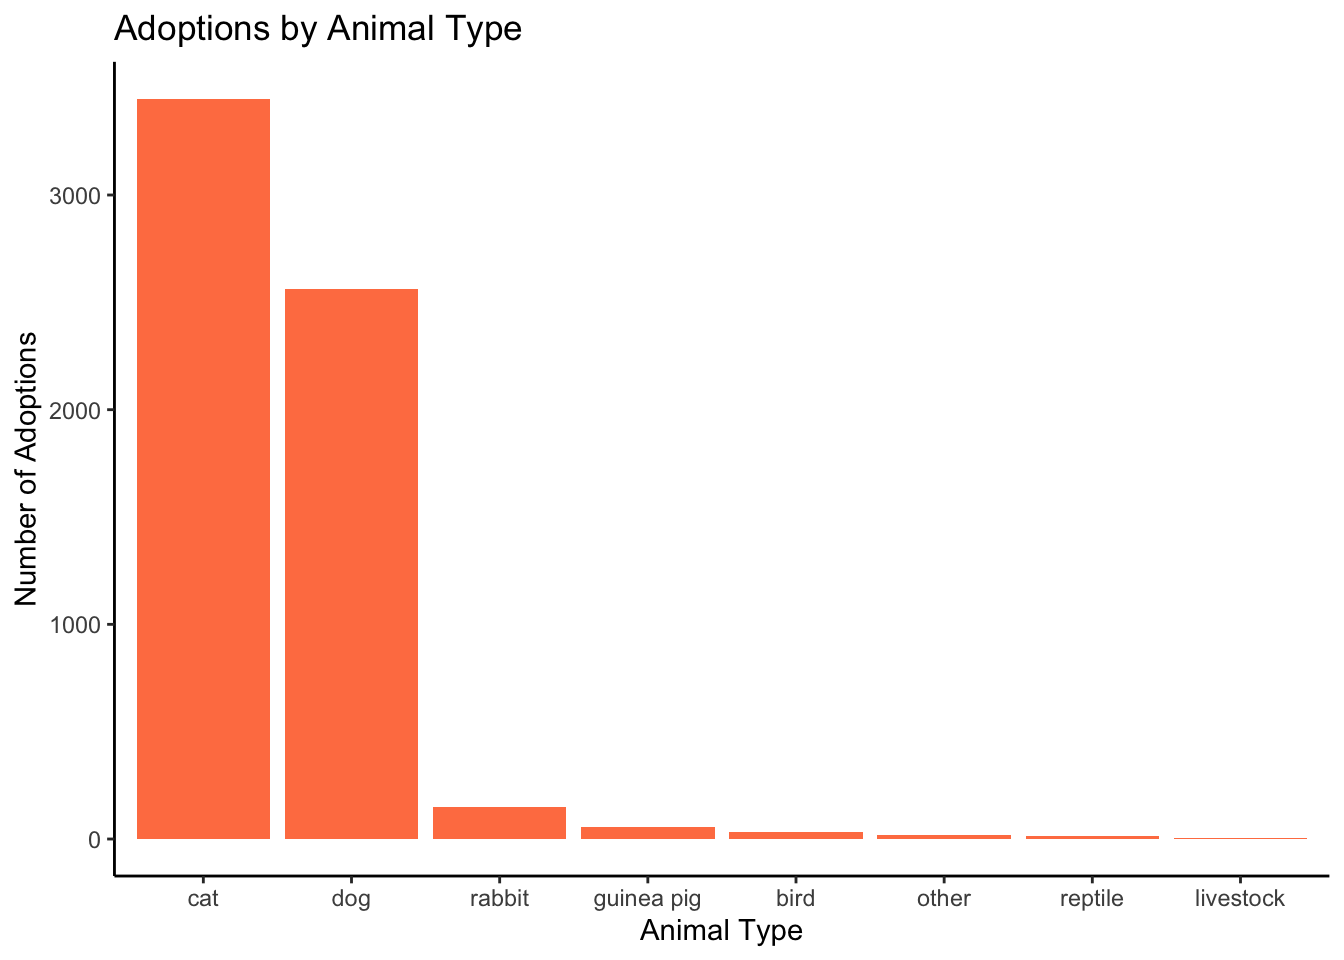
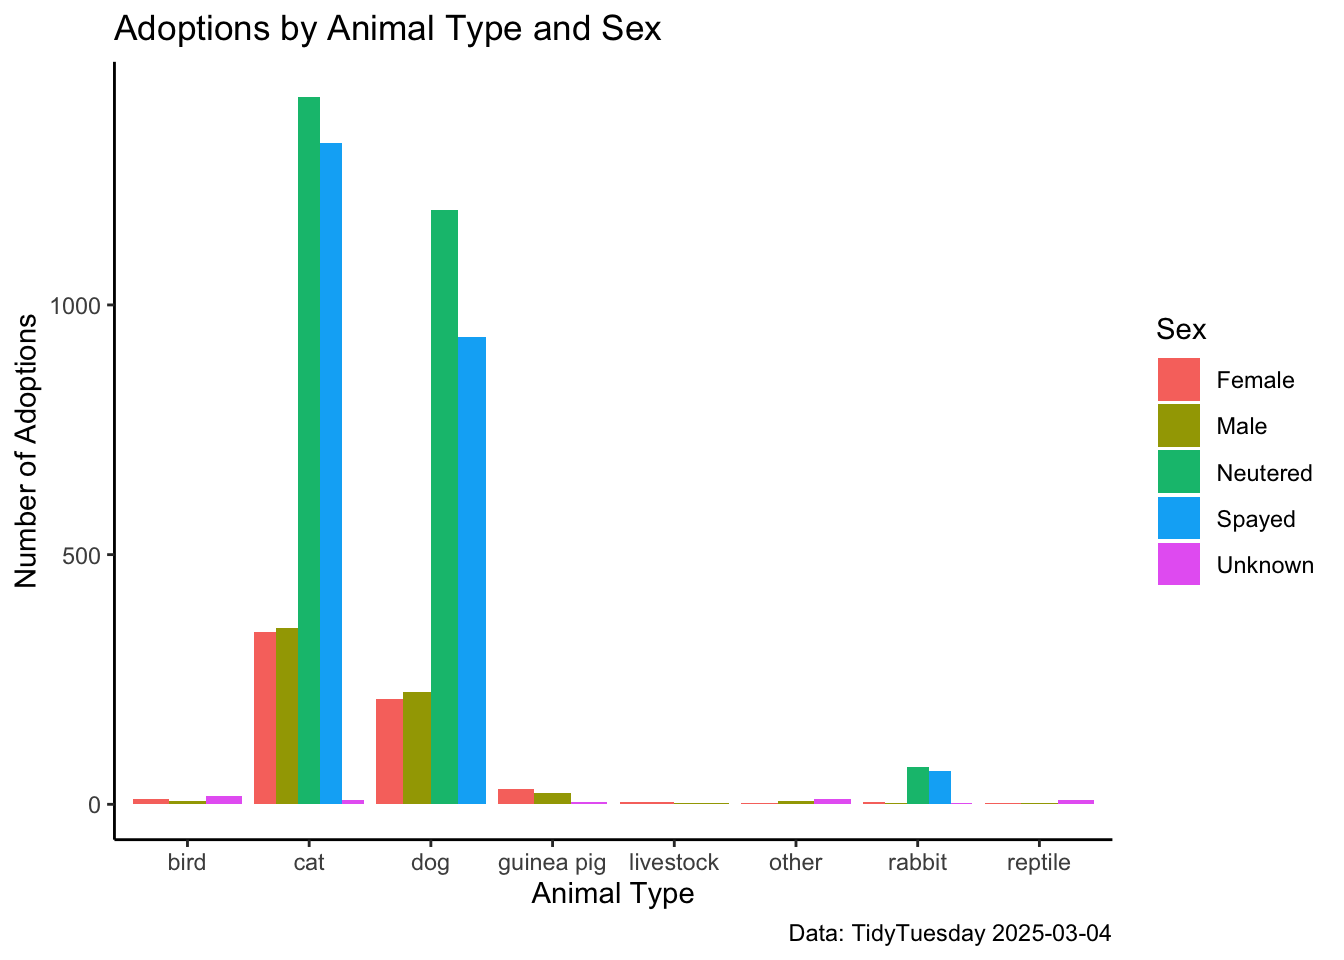
updated html

diff --git a/2025-03-04/2025-03-04.html b/2025-03-04/2025-03-04.html
@@ -166,22 +166,21 @@ date  (3): dob, intake_date, outcome_date
 </div>
 <p>Which type of pets are adopted most often?</p>
 <div class="cell">
-<div class="sourceCode cell-code" id="cb10"><pre class="sourceCode r code-with-copy"><code class="sourceCode r"><span id="cb10-1"><a href="#cb10-1" aria-hidden="true" tabindex="-1"></a><span class="co"># Count adoptions by animal type</span></span>
-<span id="cb10-2"><a href="#cb10-2" aria-hidden="true" tabindex="-1"></a>adoptions_by_type <span class="ot">&lt;-</span> longbeach <span class="sc">%&gt;%</span></span>
-<span id="cb10-3"><a href="#cb10-3" aria-hidden="true" tabindex="-1"></a>  <span class="fu">filter</span>(outcome_type <span class="sc">==</span> <span class="st">"adoption"</span>) <span class="sc">%&gt;%</span></span>
-<span id="cb10-4"><a href="#cb10-4" aria-hidden="true" tabindex="-1"></a>  <span class="fu">group_by</span>(animal_type) <span class="sc">%&gt;%</span></span>
-<span id="cb10-5"><a href="#cb10-5" aria-hidden="true" tabindex="-1"></a>  <span class="fu">summarise</span>(<span class="at">total_adopted =</span> <span class="fu">n</span>()) <span class="sc">%&gt;%</span></span>
-<span id="cb10-6"><a href="#cb10-6" aria-hidden="true" tabindex="-1"></a>  <span class="fu">arrange</span>(<span class="fu">desc</span>(total_adopted))</span>
-<span id="cb10-7"><a href="#cb10-7" aria-hidden="true" tabindex="-1"></a></span>
-<span id="cb10-8"><a href="#cb10-8" aria-hidden="true" tabindex="-1"></a><span class="co"># Plot </span></span>
-<span id="cb10-9"><a href="#cb10-9" aria-hidden="true" tabindex="-1"></a><span class="fu">ggplot</span>(adoptions_by_type, <span class="fu">aes</span>(<span class="at">x =</span> <span class="fu">reorder</span>(animal_type, <span class="sc">-</span>total_adopted), <span class="at">y =</span> total_adopted)) <span class="sc">+</span></span>
-<span id="cb10-10"><a href="#cb10-10" aria-hidden="true" tabindex="-1"></a>  <span class="fu">geom_bar</span>(<span class="at">stat =</span> <span class="st">"identity"</span>, <span class="at">fill =</span> <span class="st">"coral"</span>) <span class="sc">+</span></span>
-<span id="cb10-11"><a href="#cb10-11" aria-hidden="true" tabindex="-1"></a>  <span class="fu">labs</span>(</span>
-<span id="cb10-12"><a href="#cb10-12" aria-hidden="true" tabindex="-1"></a>    <span class="at">title =</span> <span class="st">"Adoptions by Animal Type"</span>,</span>
-<span id="cb10-13"><a href="#cb10-13" aria-hidden="true" tabindex="-1"></a>    <span class="at">x =</span> <span class="st">"Animal Type"</span>,</span>
-<span id="cb10-14"><a href="#cb10-14" aria-hidden="true" tabindex="-1"></a>    <span class="at">y =</span> <span class="st">"Number of Adoptions"</span></span>
-<span id="cb10-15"><a href="#cb10-15" aria-hidden="true" tabindex="-1"></a>  ) <span class="sc">+</span></span>
-<span id="cb10-16"><a href="#cb10-16" aria-hidden="true" tabindex="-1"></a>  <span class="fu">theme_classic</span>()</span></code><button title="Copy to Clipboard" class="code-copy-button"><i class="bi"></i></button></pre></div>
+<div class="sourceCode cell-code" id="cb10"><pre class="sourceCode r code-with-copy"><code class="sourceCode r"><span id="cb10-1"><a href="#cb10-1" aria-hidden="true" tabindex="-1"></a>adoptions_by_sex <span class="ot">&lt;-</span> longbeach <span class="sc">%&gt;%</span></span>
+<span id="cb10-2"><a href="#cb10-2" aria-hidden="true" tabindex="-1"></a>  <span class="fu">filter</span>(outcome_type <span class="sc">==</span> <span class="st">"adoption"</span>) <span class="sc">%&gt;%</span></span>
+<span id="cb10-3"><a href="#cb10-3" aria-hidden="true" tabindex="-1"></a>  <span class="fu">group_by</span>(animal_type, sex) <span class="sc">%&gt;%</span></span>
+<span id="cb10-4"><a href="#cb10-4" aria-hidden="true" tabindex="-1"></a>  <span class="fu">summarise</span>(<span class="at">adoptions =</span> <span class="fu">n</span>(), <span class="at">.groups =</span> <span class="st">"drop"</span>)</span>
+<span id="cb10-5"><a href="#cb10-5" aria-hidden="true" tabindex="-1"></a></span>
+<span id="cb10-6"><a href="#cb10-6" aria-hidden="true" tabindex="-1"></a><span class="fu">ggplot</span>(adoptions_by_sex, <span class="fu">aes</span>(<span class="at">x =</span> animal_type, <span class="at">y =</span> adoptions, <span class="at">fill =</span> sex)) <span class="sc">+</span></span>
+<span id="cb10-7"><a href="#cb10-7" aria-hidden="true" tabindex="-1"></a>  <span class="fu">geom_bar</span>(<span class="at">stat =</span> <span class="st">"identity"</span>, <span class="at">position =</span> <span class="st">"dodge"</span>) <span class="sc">+</span></span>
+<span id="cb10-8"><a href="#cb10-8" aria-hidden="true" tabindex="-1"></a>  <span class="fu">labs</span>(</span>
+<span id="cb10-9"><a href="#cb10-9" aria-hidden="true" tabindex="-1"></a>    <span class="at">title =</span> <span class="st">"Adoptions by Animal Type and Sex"</span>,</span>
+<span id="cb10-10"><a href="#cb10-10" aria-hidden="true" tabindex="-1"></a>    <span class="at">x =</span> <span class="st">"Animal Type"</span>,</span>
+<span id="cb10-11"><a href="#cb10-11" aria-hidden="true" tabindex="-1"></a>    <span class="at">y =</span> <span class="st">"Number of Adoptions"</span>,</span>
+<span id="cb10-12"><a href="#cb10-12" aria-hidden="true" tabindex="-1"></a>    <span class="at">fill =</span> <span class="st">"Sex"</span>,</span>
+<span id="cb10-13"><a href="#cb10-13" aria-hidden="true" tabindex="-1"></a>    <span class="at">caption =</span> <span class="st">"Data: TidyTuesday 2025-03-04"</span></span>
+<span id="cb10-14"><a href="#cb10-14" aria-hidden="true" tabindex="-1"></a>  ) <span class="sc">+</span></span>
+<span id="cb10-15"><a href="#cb10-15" aria-hidden="true" tabindex="-1"></a>  <span class="fu">theme_classic</span>()</span></code><button title="Copy to Clipboard" class="code-copy-button"><i class="bi"></i></button></pre></div>
 <div class="cell-output-display">
 <div>
 <figure class="figure">
@@ -190,6 +189,9 @@ date  (3): dob, intake_date, outcome_date
 </div>
 </div>
 </div>
+<ul>
+<li>This grouped bar plot shows that dogs and cats are the most frequently adopted animals, with dogs slightly leading. In addition, within each species, the distribution of adoptions by sex appears relatively balanced, except that there may be a slight preference for females among cats.</li>
+</ul>
 </section>
 
 </main>
